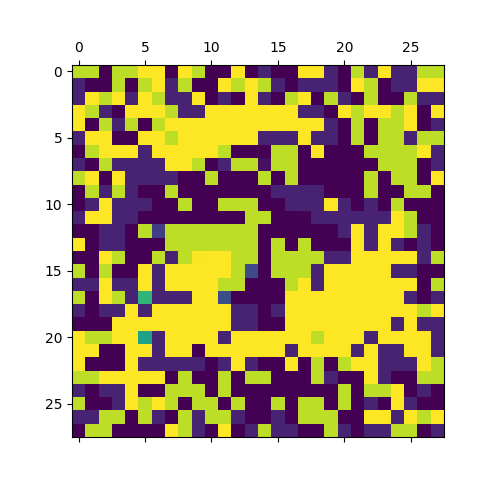
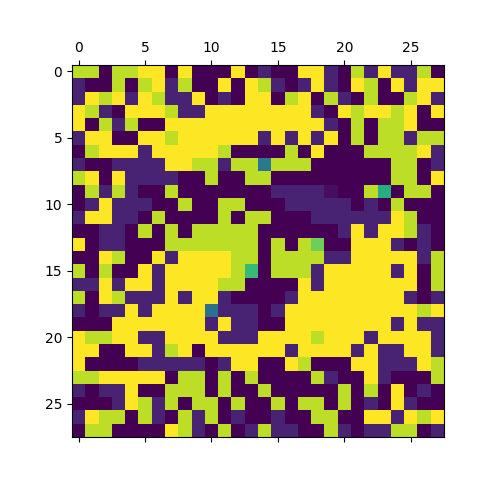
modt updated

diff --git a/vaghar_org/utils/run_exp.py b/vaghar_org/utils/run_exp.py
@@ -223,7 +223,7 @@ def run_vaghar_standard(arch, model_path, output_dir, ctag,
         '--c_tag_mode', 'false',
         '--use_hyper_attack', 'true',
         '--activate_vaghgar_deps', 'true',
-        '--use_perturbed_intervals', 'true',
+        '--use_perturbed_intervals', 'false',
     ]
     return run_julia(args, f'VHAGaR standard {arch} (ctag={ctag})')
 
